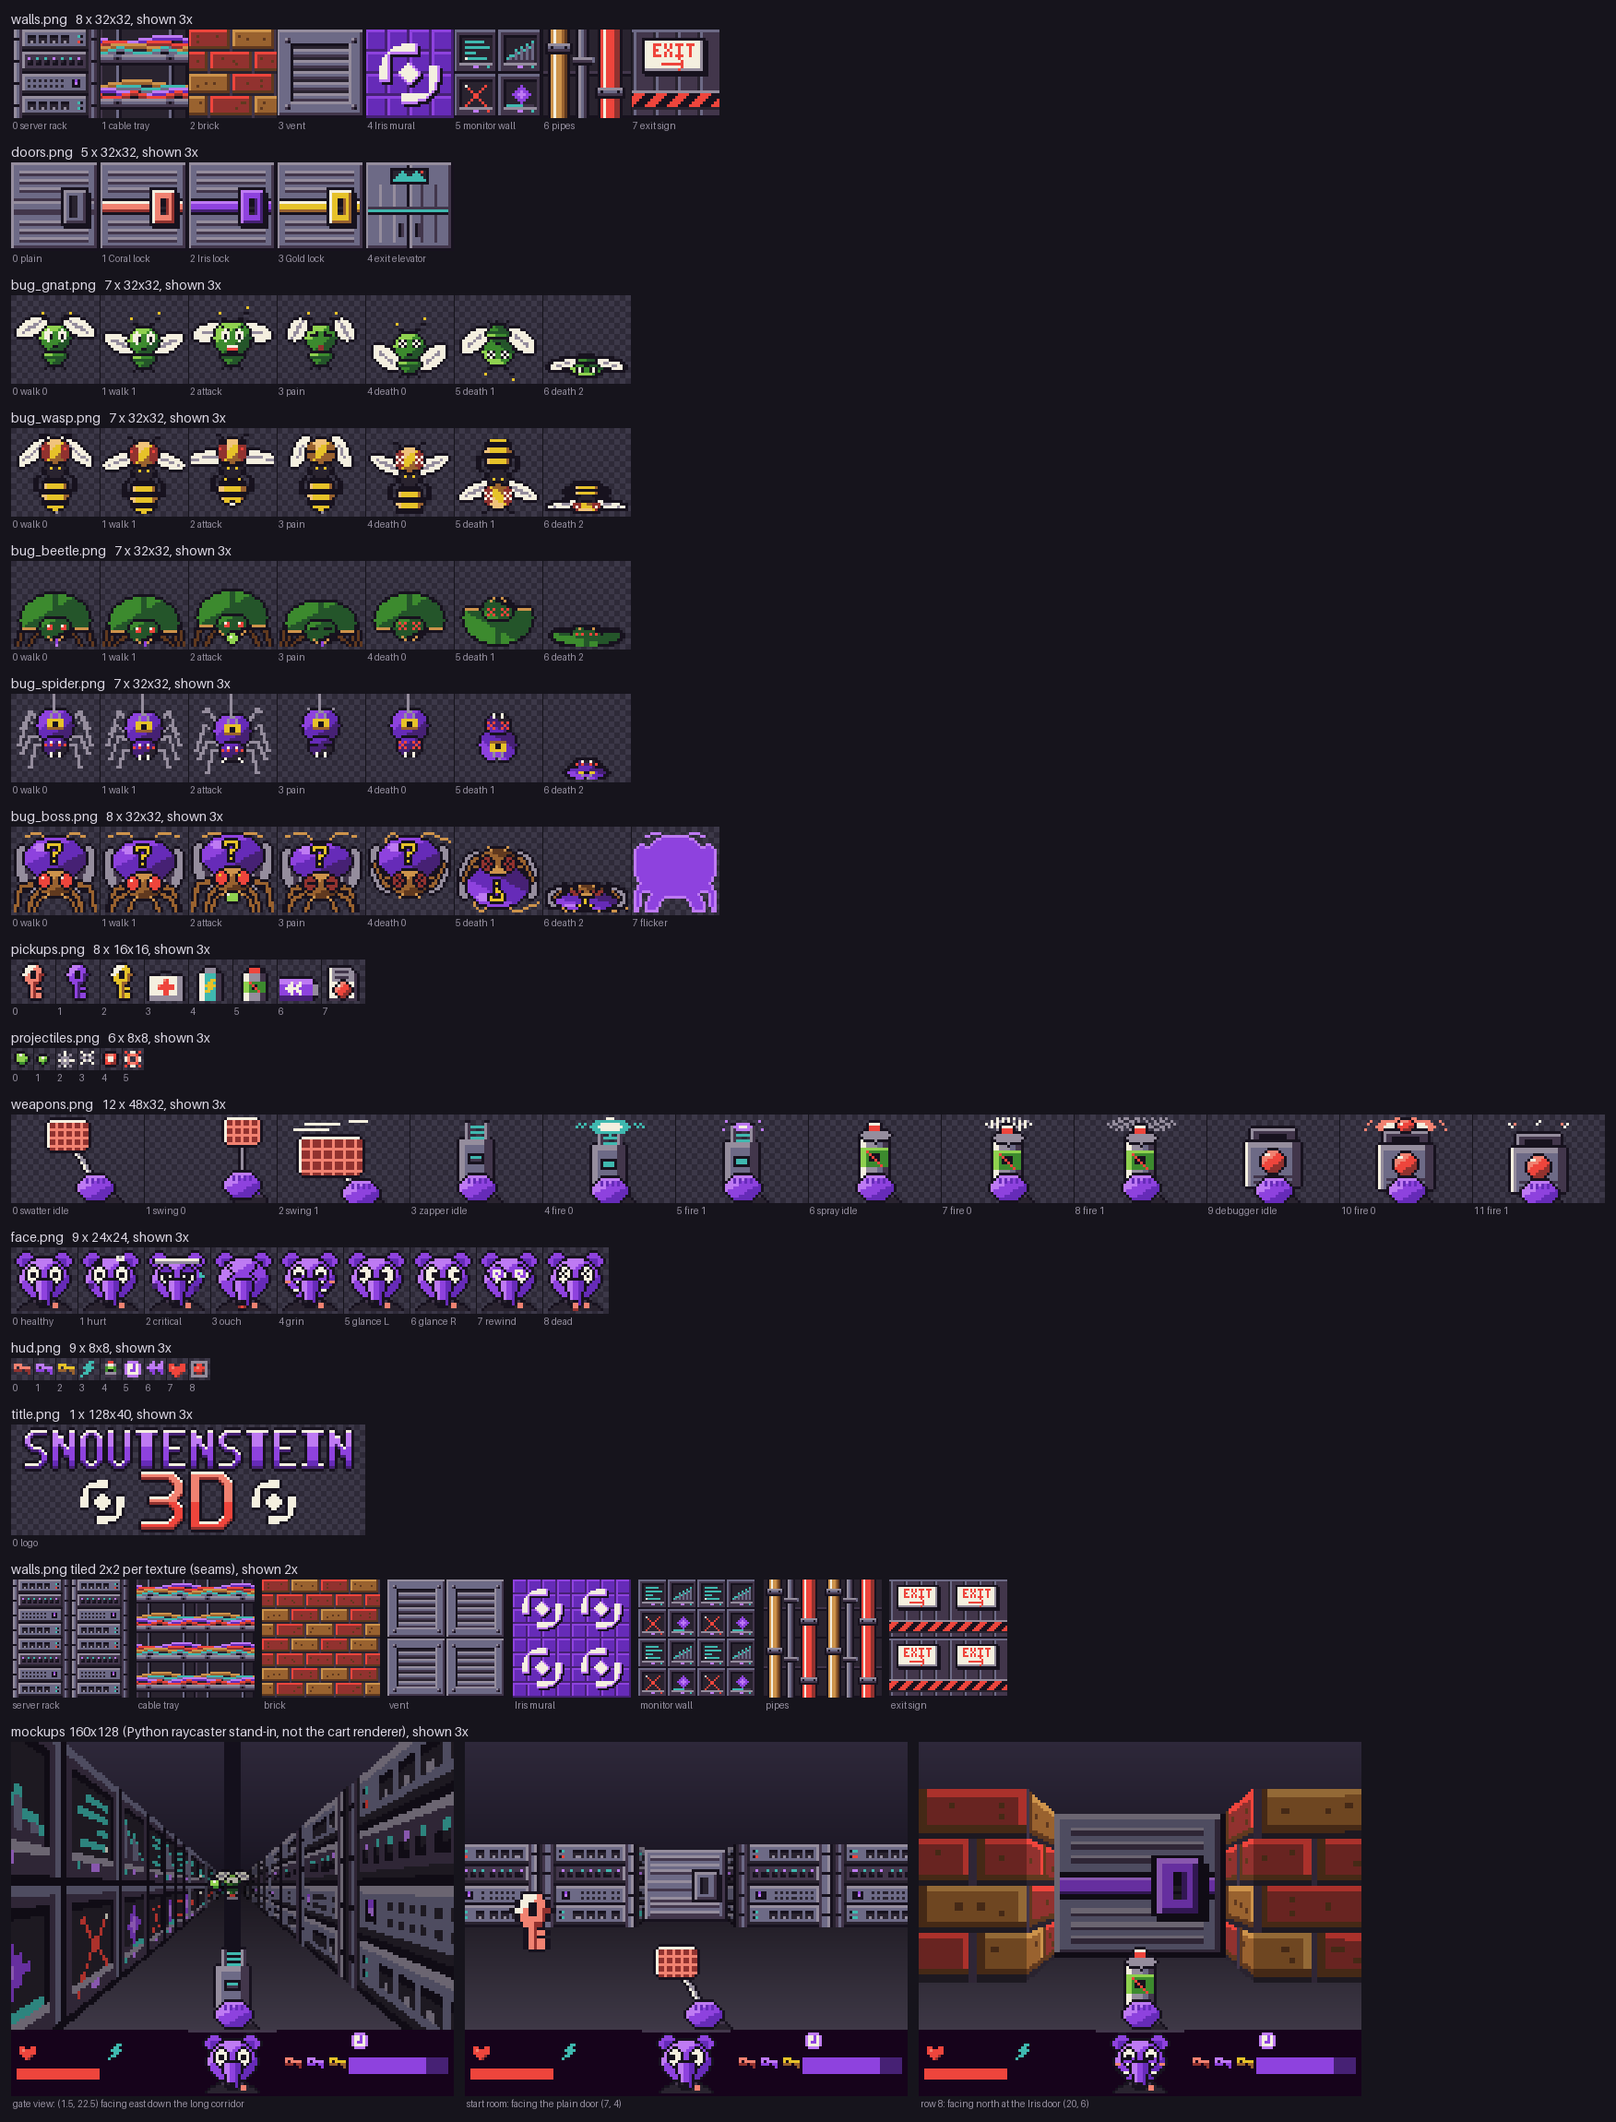
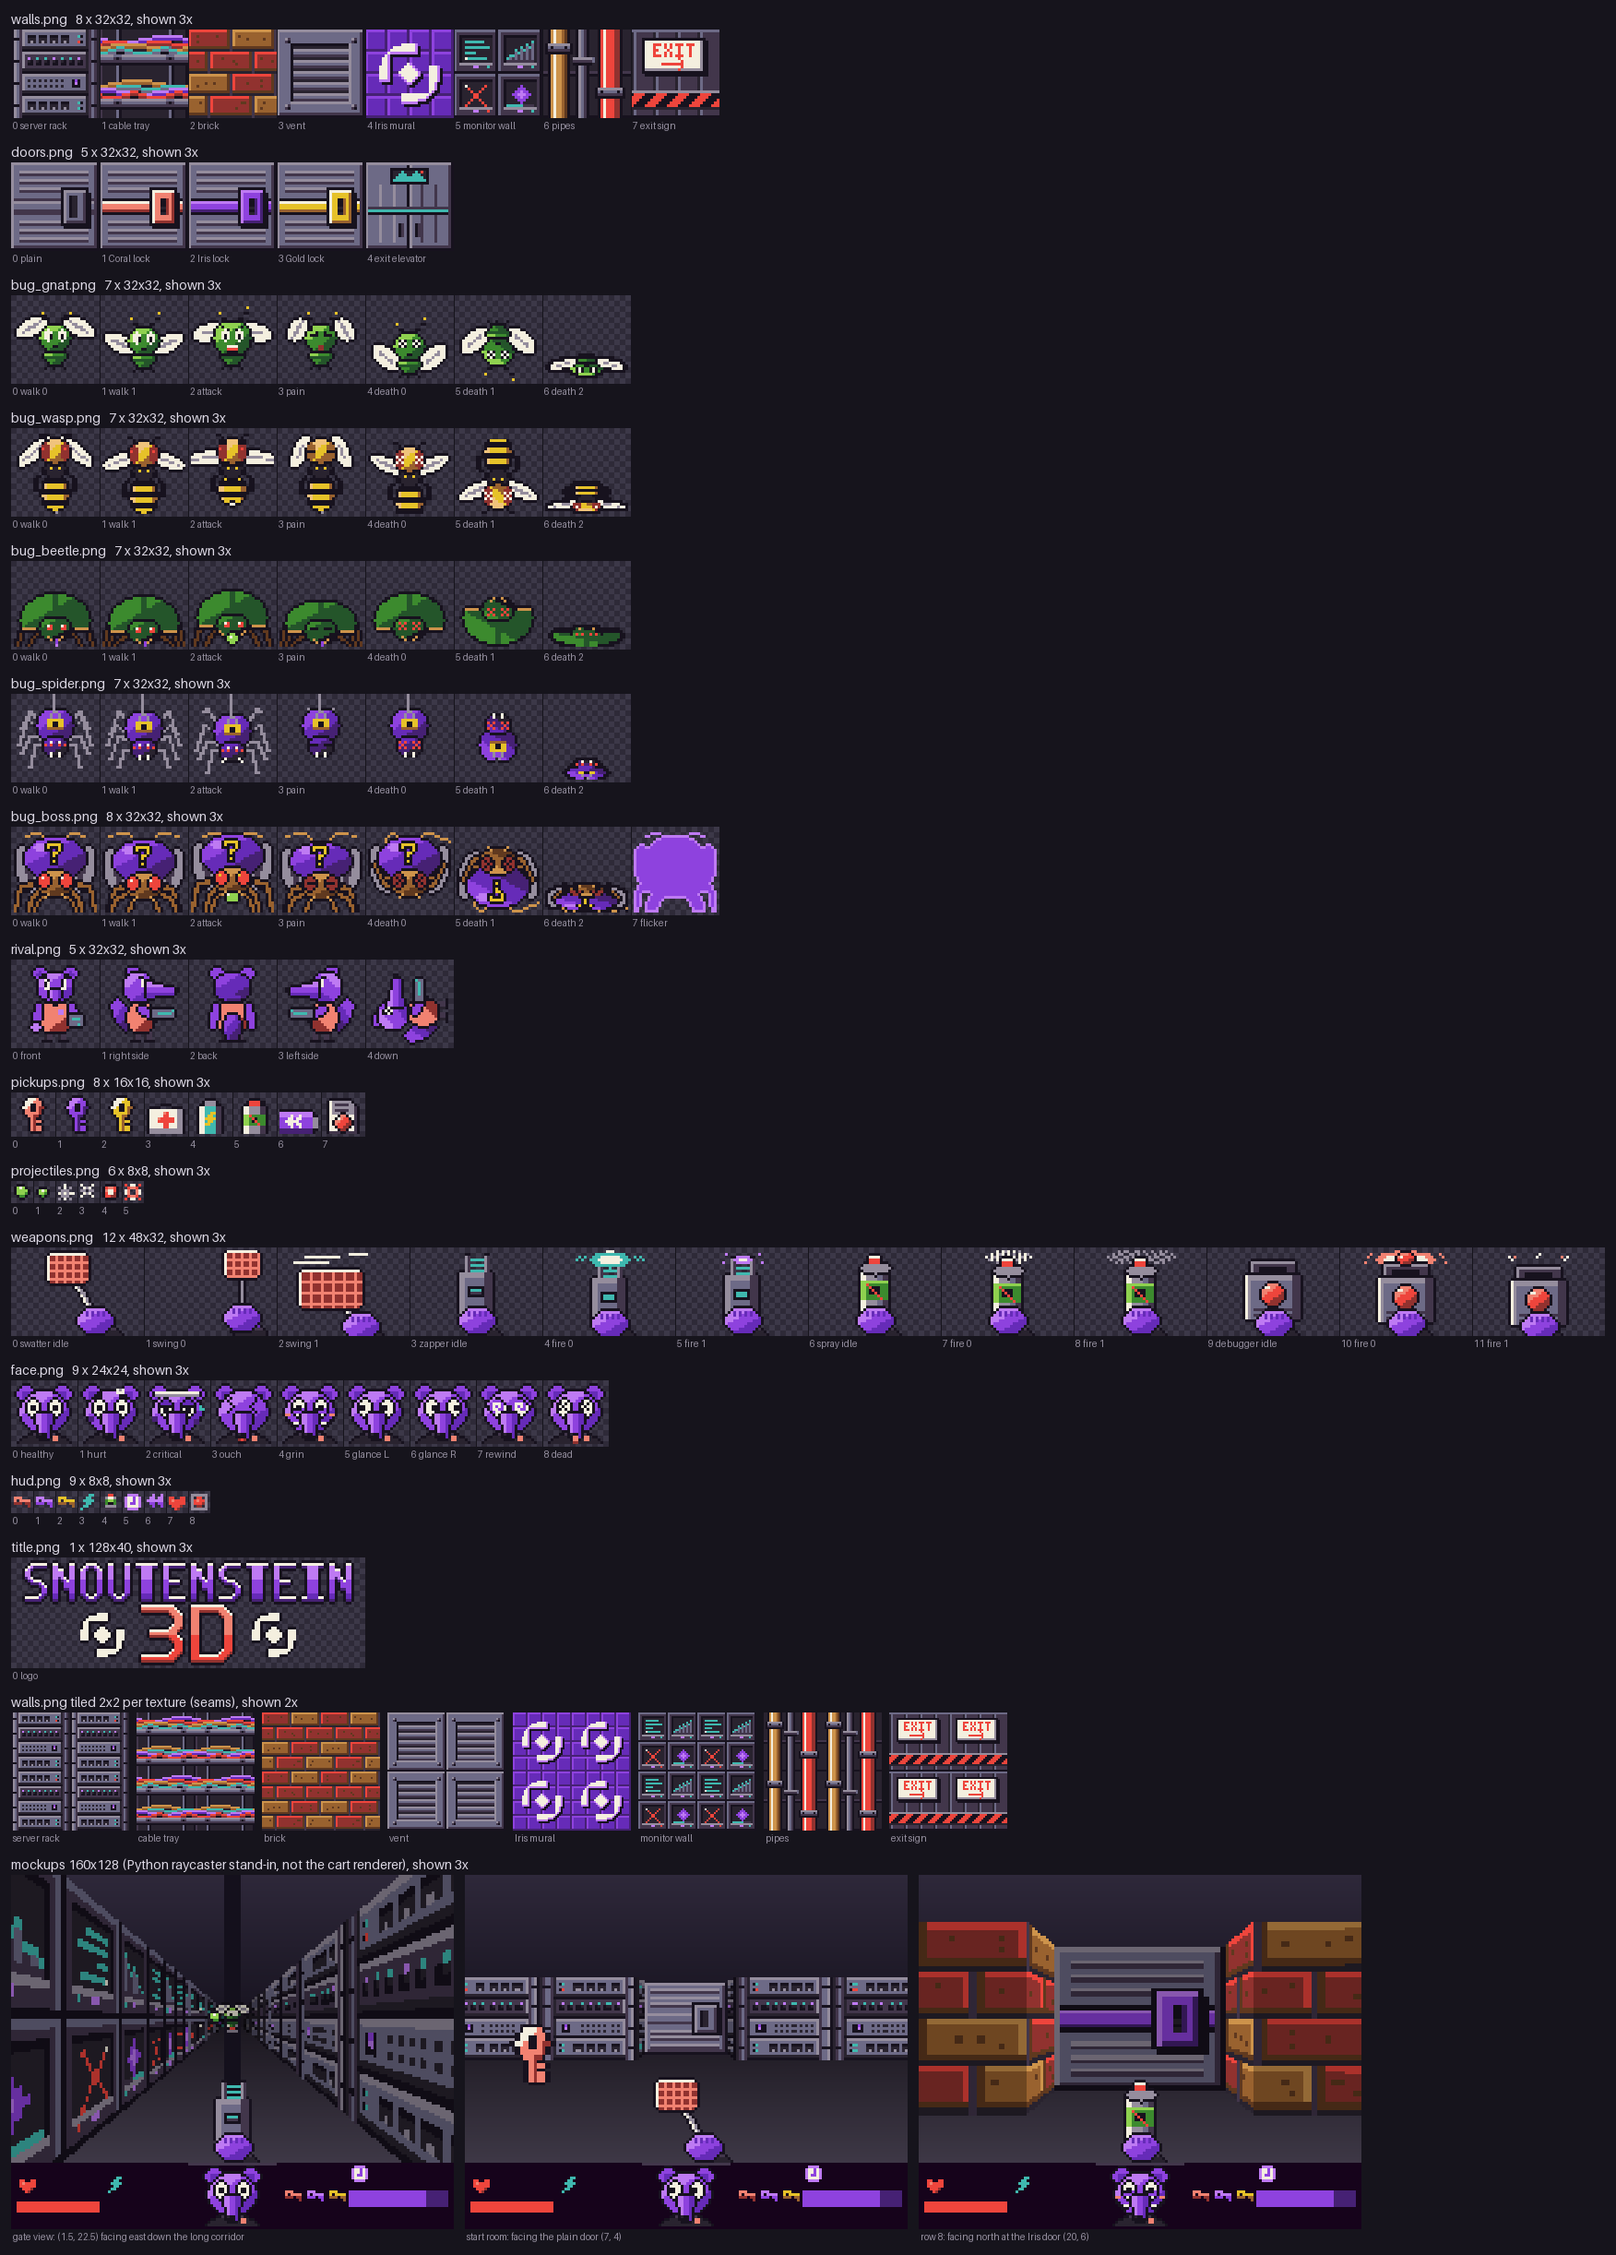
snoutenstein: code-drawn rival Snouty billboard (M7)
Each badge renders its own player's view, so the other player needs a
sprite. rival.png is drawn by prepare_assets.py like every other sheet
(the placeholder art is final): a rival Snouty in a Coral shirt with a
zapper, front, right side, back, left side and a lying-down death
frame, bottom-anchored and one cell tall like the bugs. Regenerating
the placeholders leaves every existing sheet byte-identical.

sprites.zig draws it from an optional `rival` entry (null in the
campaign) through the same depth-clipped billboard path, all white for
the hit flash, and can hide the bug slots for BUGS OFF.
match.rival_cell picks the cell from the rival's facing against the
direction to the viewer (host test).

Changed region(s): [[0.0, 0.0, 1.0, 1.0]]

diff --git a/carts/snoutenstein/tools/prepare_assets.py b/carts/snoutenstein/tools/prepare_assets.py
@@ -91,6 +91,7 @@ MANIFEST: dict[str, Sheet] = {
         Sheet("bug_spider.png", 32, 32, 7, True, edge_ok="t",
               edge_cols=(SPIDER_THREAD_X, SPIDER_THREAD_X)),
         Sheet("bug_boss.png", 32, 32, 8, True),
+        Sheet("rival.png", 32, 32, 5, True),
         Sheet("pickups.png", 16, 16, 8, True),
         Sheet("projectiles.png", 8, 8, 6, True),
         Sheet("weapons.png", 48, 32, 12, True, edge_ok="b"),
@@ -112,6 +113,7 @@ FRAME_NAMES = {
     "bug_beetle.png": BUG_FRAMES,
     "bug_spider.png": BUG_FRAMES,
     "bug_boss.png": BUG_FRAMES + ["flicker"],
+    "rival.png": ["front", "right side", "back", "left side", "down"],
     "pickups.png": ["Coral key", "Iris key", "Gold key", "hotfix", "zapper charge",
                     "spray can", "rewind battery", "Debugger cartridge"],
     "projectiles.png": ["spit 0", "spit 1", "web 0", "web 1", "debug bolt", "debug burst"],
@@ -1146,6 +1148,134 @@ def draw_bug(name: str) -> np.ndarray:
 
 
 # --------------------------------------------------------------------------
+# rival.png (deathmatch, M7): the other player, a rival Snouty in a Coral
+# shirt holding a zapper, 5 cells 32x32 bottom-anchored like the bugs:
+# front (facing the viewer), right side (facing screen right), back, left
+# side (the mirror), and down (the death view: lying on the floor, X eyes).
+# Purple fur as on the portrait, Coral shirt (Iris badge), dark trousers,
+# teal zapper. The engine draws the hit flash (all white), as for bugs.
+# --------------------------------------------------------------------------
+def rival_legs(c: np.ndarray, xs: list[int], y0: int = 24) -> None:
+    for x in xs:
+        rect(c, x, y0, x + 2, 28, "m")
+        rect(c, x, y0, x, 28, "d")
+        rect(c, x - (1 if x < 15 else 0), 29, x + 2 + (0 if x < 15 else 1), 29, "o")
+
+
+def rival_shirt(c: np.ndarray, cx: float, rx: float, badge: bool) -> None:
+    body = ellipse(N, N, cx, 20.5, rx, 6.2) & (np.arange(N)[:, None] >= 15) & (np.arange(N)[:, None] <= 25)
+    layer(c, body, shade(body, "C", "C", "R", cx, 20.5, rx, 6.2, hi=-0.9, lo=0.35))
+    if badge:
+        c[18:20, int(cx) + 2 : int(cx) + 4] = "4"
+
+
+def rival_front() -> np.ndarray:
+    c = canvas(N, N)
+    rival_legs(c, [12, 17])
+    rival_shirt(c, 15.5, 6.2, True)
+    # arms: left hangs, right holds the zapper forward
+    layer(c, seg_mask(N, N, [(9.5, 17), (8.5, 23)], 1.3), "3")
+    layer(c, seg_mask(N, N, [(21.5, 17), (22.5, 21)], 1.3), "3")
+    layer(c, ellipse(N, N, 8.5, 24, 1.6, 1.4), "4")
+    zap = np.zeros((N, N), bool)
+    zap[20:24, 21:26] = True
+    layer(c, zap, "s")
+    c[21, 22:25] = "T"
+    c[23, 24] = "T"
+    # head: ears, round head, the snout coming at the viewer
+    for ex in (10.0, 21.0):
+        layer(c, ellipse(N, N, ex, 4.5, 2.4, 2.4), "3")
+        c[ellipse(N, N, ex, 4.7, 1.1, 1.1)] = "2"
+    head = ellipse(N, N, 15.5, 9.5, 6.3, 5.4)
+    layer(c, head, shade(head, "4", "3", "2", 15.5, 9.5, 6.3, 5.4, hi=-0.45, lo=0.45))
+    for ex in (12.5, 18.5):
+        e = ellipse(N, N, ex, 8.5, 1.5, 1.9)
+        c[e] = "c"
+        c[8:10, int(ex)] = "o"
+    # angry brows: a rival
+    plot(c, [(11, 6), (12, 6), (13, 7)], "o")
+    plot(c, [(20, 6), (19, 6), (18, 7)], "o")
+    sn = poly_mask(N, N, [(13.6, 10.5), (17.4, 10.5), (16.6, 16.0), (14.4, 16.0)])
+    xs, _ = coords(N, N)
+    layer(c, sn, np.where(xs < 14.8, "4", np.where(xs > 16.2, "2", "3")))
+    c[15:17, 15:17] = "o"
+    return c
+
+
+def rival_side() -> np.ndarray:
+    """Facing screen right."""
+    c = canvas(N, N)
+    # tail behind (left), bushy
+    tail = ellipse_rot(7.5, 19.5, 2.8, 6.0, -25)
+    layer(c, tail, shade(tail, "3", "2", "1", 7.5, 19.5, 2.8, 6.0))
+    rival_legs(c, [12, 16])
+    rival_shirt(c, 14.5, 4.8, False)
+    # arm forward with the zapper pointing right
+    layer(c, seg_mask(N, N, [(14.5, 17.5), (19.5, 20.0)], 1.3), "3")
+    zap = np.zeros((N, N), bool)
+    zap[18:21, 19:27] = True
+    layer(c, zap, "s")
+    c[19, 21:26] = "T"
+    c[18, 26] = "T"
+    # head, ear, long anteater snout to the right
+    layer(c, ellipse(N, N, 11.5, 4.5, 2.2, 2.4), "3")
+    c[ellipse(N, N, 11.5, 4.8, 1.0, 1.0)] = "2"
+    head = ellipse(N, N, 13.5, 9.5, 5.4, 5.2)
+    layer(c, head, shade(head, "4", "3", "2", 13.5, 9.5, 5.4, 5.2, hi=-0.45, lo=0.45))
+    sn = poly_mask(N, N, [(17.0, 7.6), (27.5, 10.2), (27.5, 11.8), (17.0, 13.4)])
+    xs, ys = coords(N, N)
+    layer(c, sn, np.where(ys < 9.8, "4", np.where(ys > 11.8, "2", "3")))
+    c[10:12, 27:29] = "o"  # nose tip
+    e = ellipse(N, N, 15.5, 8.2, 1.4, 1.8)
+    c[e] = "c"
+    c[8:10, 16] = "o"
+    plot(c, [(14, 6), (15, 6), (16, 7)], "o")
+    return c
+
+
+def rival_back() -> np.ndarray:
+    c = canvas(N, N)
+    rival_legs(c, [12, 17])
+    # tail hanging behind the legs
+    tail = ellipse(N, N, 15.5, 24.0, 2.8, 5.0)
+    rival_shirt(c, 15.5, 6.2, False)
+    layer(c, tail, shade(tail, "3", "2", "1", 15.5, 24.0, 2.8, 5.0))
+    layer(c, seg_mask(N, N, [(9.5, 17), (8.5, 23)], 1.3), "3")
+    layer(c, seg_mask(N, N, [(21.5, 17), (22.5, 23)], 1.3), "3")
+    for ex in (10.0, 21.0):
+        layer(c, ellipse(N, N, ex, 4.5, 2.4, 2.4), "3")
+    head = ellipse(N, N, 15.5, 9.5, 6.3, 5.4)
+    layer(c, head, shade(head, "3", "2", "1", 15.5, 9.5, 6.3, 5.4, hi=-0.45, lo=0.45))
+    c[13, 13:19] = "2"  # the collar line
+    return c
+
+
+def rival_down() -> np.ndarray:
+    """The death view: the side drawing turned onto its back, X eyes."""
+    side = rival_side()
+    lying = np.rot90(side, k=1).copy()  # head to the left, feet up-right
+    lying = anchor_bottom(lying, 30)
+    # X eyes where the eye landed
+    ys, xs = np.nonzero(lying == "c")
+    if len(xs):
+        cx, cy = int(round(xs.mean())), int(round(ys.mean()))
+        rect(lying, cx - 1, cy - 1, cx + 1, cy + 1, "c")
+        eyes_x(lying, [(cx, cy)])
+    return lying
+
+
+RIVAL_FRAMES = ["front", "right side", "back", "left side", "down"]
+
+
+def draw_rival() -> np.ndarray:
+    side = rival_side()
+    cells = [rival_front(), side, rival_back(), mirror_x(side), rival_down()]
+    for cl in cells:
+        clear_border(cl)
+    return strip([to_rgb(cl, True) for cl in cells])
+
+
+# --------------------------------------------------------------------------
 # pickups.png: 8 cells 16x16, standing on the floor (bottom-centre anchor:
 # drawings rest on row 14). Keys, hotfix medkit, zapper charge cell, bug
 # spray can, rewind battery, Debugger cartridge (red breakpoint dot).
@@ -1707,6 +1837,7 @@ PLACEHOLDER_DRAW = {
     "bug_beetle.png": lambda: draw_bug("bug_beetle.png"),
     "bug_spider.png": lambda: draw_bug("bug_spider.png"),
     "bug_boss.png": lambda: draw_bug("bug_boss.png"),
+    "rival.png": draw_rival,
     "pickups.png": draw_pickups,
     "projectiles.png": draw_projectiles,
     "weapons.png": draw_weapons,

diff --git a/carts/snoutenstein/ASSETS.md b/carts/snoutenstein/ASSETS.md
@@ -211,6 +211,7 @@ snouty-badge). Sizes are exact.
 |11 | `face.png`        | 24x24  | 9      | 216x24   | Snouty head-on, Doom-face style: 0 healthy, 1 hurt (HP < 60: bruise, plaster, worried brows), 2 critical (HP < 25: bandage, heavy lids, sweat), 3 ouch (eyes squeezed, mouth open), 4 grin (pickup: happy squint, grin), 5 glance left, 6 glance right (pupils only), 7 rewind (eyes spiralling), 8 dead (X eyes, tongue out). Same head position in all nine. |
 |12 | `hud.png`         | 8x8    | 9      | 72x8     | 0-2 keys Coral/Iris/Gold (drawn lit, the code dims missing ones), 3 zapper charge icon, 4 spray icon, 5 clock, 6 `<<` (rewind), 7 heart, 8 Debugger ammo (red dot in a small grey box). 1 px border. |
 |13 | `title.png`       | 128x40 | 1      | 128x40   | Logo lettering "SNOUTENSTEIN" over a big "3D", chunky 16-bit logo style, Snouty purples with cream highlights, "3D" in Coral, Iris marks optional. Transparent background; the code writes "PRESS A" and the "powered by deterministic replay" tag line itself. |
+|14 | `rival.png`       | 32x32  | 5      | 160x32   | Deathmatch (M7): the other player, a rival Snouty (purple fur as on the portrait, Coral shirt with an Iris badge, dark trousers, teal zapper), standing on row 29 like the bugs and drawn 1 cell tall. 0 front (facing the viewer, angry brows), 1 right side (facing screen right: long snout, bushy tail behind), 2 back (tail), 3 left side (mirror of 1), 4 down (the death view: on its back, X eye). The code picks 0-3 from the rival's facing against the view direction and draws the hit flash all white, as for bugs. |
 
 ## 8. Delivery format (per study, mirrors Run Study 05)
 
